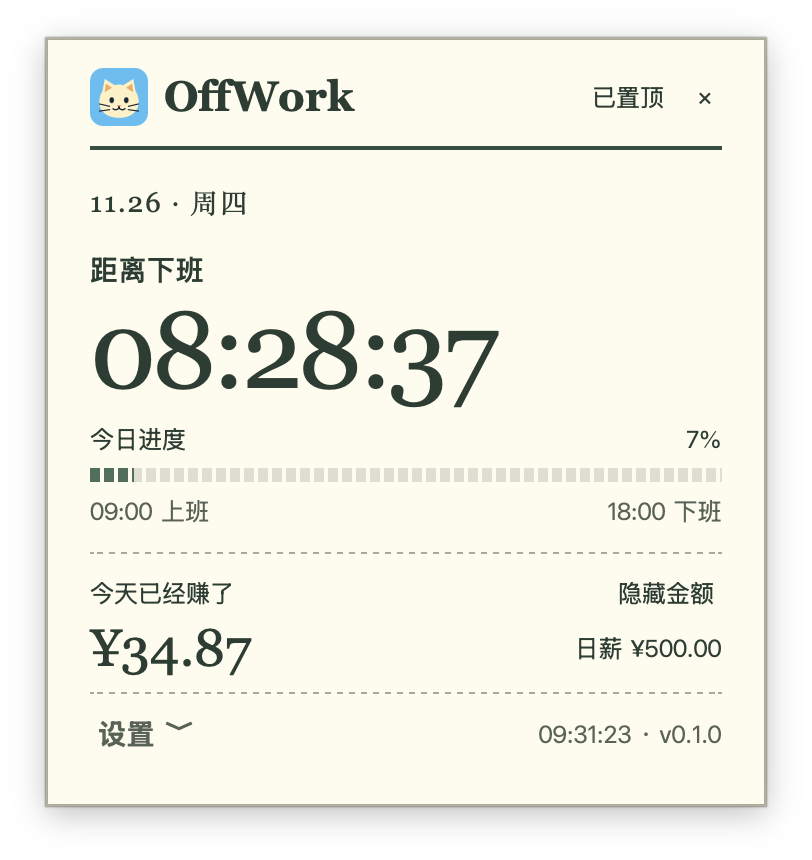
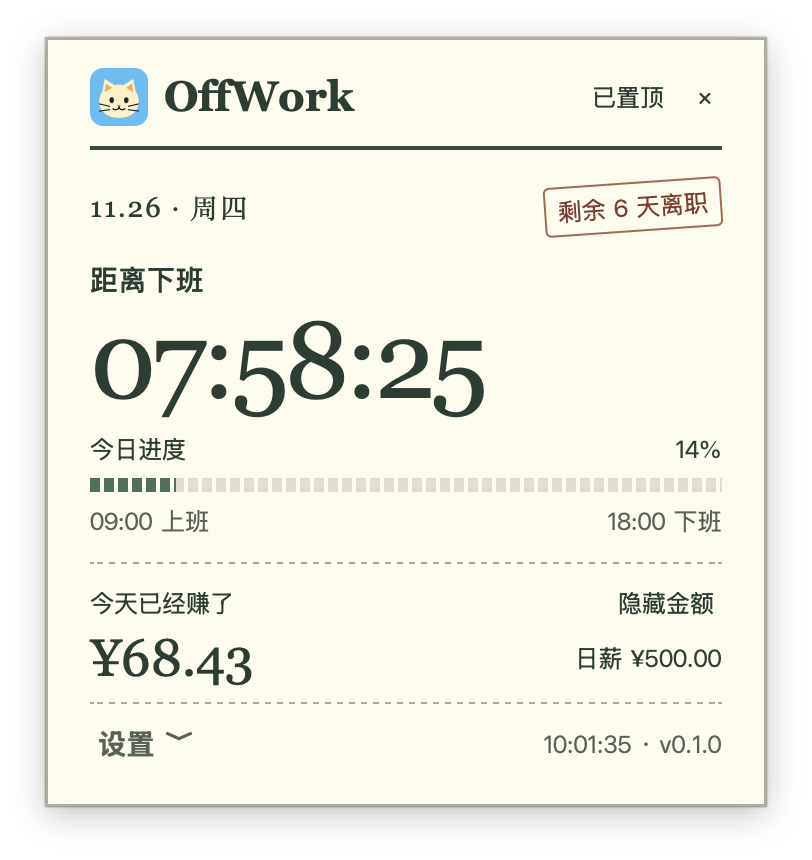
docs: record phase 2 size, runtime and desktop evidence
Add macOS collapsed/expanded screenshots, the 10-minute M1 runtime run,
CI size/runtime artifacts and the AppKit drag script used to verify
drag-in OCR on a real macOS desktop.

diff --git a/rust/scripts/mac_drop.swift b/rust/scripts/mac_drop.swift
@@ -1,0 +1,50 @@
+// Drag a file URL from a native AppKit drag source onto a screen point, using real pointer events.
+import AppKit
+
+let args = CommandLine.arguments
+let file = URL(fileURLWithPath: args[1])
+let target = CGPoint(x: Double(args[2])!, y: Double(args[3])!)
+
+final class Source: NSView, NSDraggingSource {
+    func draggingSession(_ s: NSDraggingSession, sourceOperationMaskFor c: NSDraggingContext) -> NSDragOperation { .copy }
+    override func mouseDown(with event: NSEvent) {
+        let item = NSDraggingItem(pasteboardWriter: file as NSURL)
+        item.setDraggingFrame(bounds, contents: NSImage(size: bounds.size))
+        beginDraggingSession(with: [item], event: event, source: self)
+    }
+    func draggingSession(_ s: NSDraggingSession, endedAt p: NSPoint, operation: NSDragOperation) {
+        print("drag ended, operation \(operation.rawValue)")
+        NSApp.terminate(nil)
+    }
+}
+
+let app = NSApplication.shared
+app.setActivationPolicy(.regular)
+let window = NSWindow(contentRect: NSRect(x: 200, y: 200, width: 160, height: 100),
+                      styleMask: [.titled], backing: .buffered, defer: false)
+window.contentView = Source(frame: NSRect(x: 0, y: 0, width: 160, height: 100))
+window.makeKeyAndOrderFront(nil)
+app.activate(ignoringOtherApps: true)
+
+DispatchQueue.main.asyncAfter(deadline: .now() + 1) {
+    // Screen coordinates for CGEvent are top-left based.
+    let screenHeight = NSScreen.screens[0].frame.height
+    let f = window.frame
+    let start = CGPoint(x: f.midX, y: screenHeight - f.midY + 10)
+    func post(_ type: CGEventType, _ p: CGPoint) {
+        CGEvent(mouseEventSource: nil, mouseType: type, mouseCursorPosition: p, mouseButton: .left)?.post(tap: .cghidEventTap)
+    }
+    post(.mouseMoved, start)
+    post(.leftMouseDown, start)
+    DispatchQueue.global().async {
+        for i in 1...30 {
+            let t = Double(i) / 30
+            post(.leftMouseDragged, CGPoint(x: start.x + (target.x - start.x) * t, y: start.y + (target.y - start.y) * t))
+            usleep(30_000)
+        }
+        usleep(300_000)
+        post(.leftMouseUp, target)
+    }
+}
+DispatchQueue.main.asyncAfter(deadline: .now() + 10) { print("timeout"); exit(2) }
+app.run()

diff --git a/rust/evidence/README.md b/rust/evidence/README.md
@@ -1,0 +1,42 @@
+# Phase 2 measurements
+
+Commit measured: `6c6d71c`. CI run: Rust desktop prototype #45868890396 (all three jobs green).
+Raw numbers live next to this file: `mac-m1-runtime-600s.json` (local) and `ci/*` (CI artifacts).
+
+## Package size (release, unsigned)
+
+| Platform | Artifact | Download | Unpacked | Extra runtime dependencies |
+|---|---|---|---|---|
+| Windows x64 | `offwork.exe` (portable) | 11.25 MiB | 11.25 MiB | System WebView2 (Evergreen 157 on the runner: 903 MiB on disk, preinstalled on Win 10/11) |
+| Windows x64 | `OffWork_0.1.0_x64-setup.exe` (NSIS) | 2.45 MiB | 11.43 MiB | same |
+| macOS arm64 | `OffWork_0.1.0_aarch64.dmg` | 3.33 MiB | 8.72 MiB (.app) | none (system WKWebView, Vision) |
+| Ubuntu 24.04 x64 | `.deb` | 4.92 MiB | 13.26 MiB | libwebkit2gtk-4.1-0 91.2 MiB installed (its own transitive deps not counted), libayatana-appindicator3-1 87 KiB; OCR: tesseract-ocr 1.1 MiB + chi-sim 2.4 MiB + eng 3.9 MiB |
+| Ubuntu 24.04 x64 | `.AppImage` | 79.8 MiB | 257.7 MiB | bundles WebKitGTK; Tesseract still from the system |
+
+SHA-256 values are in `ci/*-sizes.json`.
+
+## Runtime (process tree: app + WebView helper processes)
+
+| Where | Launch → 2nd rAF | Visible RSS avg / peak | Visible CPU | Hidden RSS avg / peak | Hidden CPU | Window |
+|---|---|---|---|---|---|---|
+| **macOS 26.5, Apple M1 8 GB (this Mac)** | 2029 ms first launch after build; 916 ms median of 5 relaunches (825–1610) | 100.0 / 169.3 MiB | 1.65 % | 62.0 / 87.1 MiB | 0.09 % | 600 s each |
+| macOS CI (macos-latest arm64) | 7688 ms | 178.9 / 180.0 MiB | 2.46 % | 179.9 / 180.1 MiB | 0.16 % | 30 s each |
+| Windows CI (windows-latest) | 9925 ms | 305.5 / 312.6 MiB | 2.03 % | 312.5 / 313.1 MiB | 1.88 % | 30 s each |
+| Windows CI, legacy C++ 0.4.5 same runner | 212 ms (visible window) | 23.6 MiB | 0.16 % | 23.6 MiB | 0.05 % | 30 s each |
+| Ubuntu CI, Xvfb software rendering | 562 ms | 484.3 / 484.5 MiB | 1.17 % | 482.4 / 484.5 MiB | 0.10 % | 30 s each |
+
+CPU is percent of one core. CI runners are shared VMs without a GPU; treat their numbers as smoke values, not budgets.
+
+## Verified paths
+
+- Rust core rules: CTest inputs/outputs ported for schedule, lunch, earnings, resignation workdays, reminder and OCR text parsing; green on all three OSes.
+- Native OCR on the DingTalk fixture → 08:55 (`ocr::native_fixture`): macOS Vision, Windows.Media.Ocr, Linux Tesseract, all green in CI.
+- Real drag-in: Linux CI drags the fixture from a GTK source into the release widget under Xvfb (`scripts/x11_drop.py`) and checks the persisted 08:55; on this Mac an AppKit drag source with real pointer events (`scripts/mac_drop.swift`) dropped the fixture on the widget, Vision read it and settings.json changed from 540 to 535.
+- Close-to-tray on macOS: × hides the window and the process keeps running; with the window hidden, usernoted recorded 「还有五分钟下班」 at exactly hh:mm:00 for three test schedules and 「下班时间到了」 at the shift end (10:08:00 / 10:13:00 for the 10:06–10:13 shift), after granting the first-run notification permission.
+
+## Still needs a real desktop
+
+- Notification click → restore window (macOS, Windows balloon, Linux) and banner visibility after permission prompts.
+- Windows: real-desktop cold start, 10-minute visible/hidden memory and CPU; hidden CPU on CI does not drop (WebView2 keeps ticking), needs a check on a real session.
+- Linux GNOME Wayland/X11 and KDE: tray menu, always-on-top refusal fallback, GPU-backed memory numbers.
+- Multi-monitor / DPI, calendar popover placement on all three engines.
